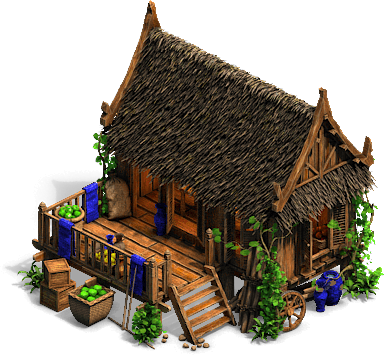
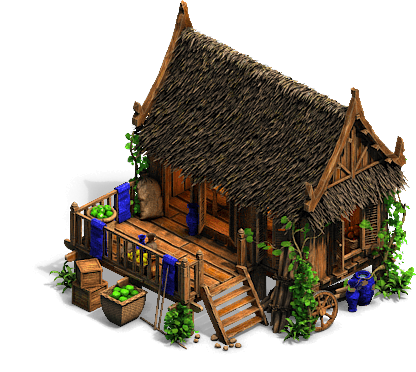
update photo

diff --git a/frontend/gui.py b/frontend/gui.py
@@ -184,14 +184,14 @@ class GUI(threading.Thread):
         # Load and scale building images
         building_types = {
             "TownCenter": (256, 256),  # Taille : (256, 256)
-            "Barracks": (self.TILE_WIDTH * 3, self.TILE_HEIGHT * 6 * 511 // 666),  # Taille : (666, 511)
-            "House": (self.TILE_WIDTH * 2, self.TILE_HEIGHT * 4),  # Taille : (128, 128)
-            "Rubble": (64, 64),  # Taille : (64, 64)
             "Stable": (self.TILE_WIDTH * 3, self.TILE_HEIGHT * 6 * 471 // 612),  # Taille : (612, 471)
             "ArcheryRange": (self.TILE_WIDTH * 3, self.TILE_HEIGHT * 6 * 595 // 648),  # Taille : (648, 595)
-            "Camp": (self.TILE_WIDTH * 2, self.TILE_HEIGHT * 4),  # Taille : (128, 128)
-            "Farm": (self.TILE_WIDTH * 2, self.TILE_HEIGHT * 2),  # Taille : (128, 64)
+            "Barracks": (self.TILE_WIDTH * 3, self.TILE_HEIGHT * 6 * 511 // 666),  # Taille : (666, 511)
+            "House": (self.TILE_WIDTH * 2, self.TILE_HEIGHT * 4 * 356 // 384),  # Taille : (384, 356)
+            "Camp": (self.TILE_WIDTH * 2, self.TILE_HEIGHT * 4 * 245 // 364),  # Taille : (364, 245)
+            "Farm": (self.TILE_WIDTH * 2, self.TILE_HEIGHT * 4 * 64 // 128),  # Taille : (128, 64)
             "Keep": (64, 64*481//310),  # Taille : (64, 64)
+            "Rubble": (64, 64),  # Taille : (64, 64)
         }
 
         for building_type, size in building_types.items():

diff --git a/backend/Game_Engine.py b/backend/Game_Engine.py
@@ -191,9 +191,8 @@ class GameEngine:
                     #action.construct_building(self.players[2].units[3], Barracks, 1, 1, self.players[2], current_time)
                     #action.construct_building(self.players[2].units[4], Barracks, 1, 1, self.players[2], current_time)
                 elif key == ord('t'):
-                    action.move_unit(self.players[2].units[0], 4, 8, self.get_current_time())
-                    action.move_unit(self.players[2].units[2], 3, 6, self.get_current_time())
-                    action.construct_building(self.players[2].units[1], Keep, 4, 4, self.players[2], self.get_current_time())
+                    action.construct_building(self.players[2].units[1], House, 4, 4, self.players[2], self.get_current_time())
+                    action.construct_building(self.players[2].units[3], Camp, 6, 6, self.players[2], self.get_current_time())
                 elif key == ord('k'):
                     action.gather_resources(self.players[2].units[1], "Food", self.get_current_time())
                     action.gather_resources(self.players[2].units[2], "Wood", self.get_current_time())
